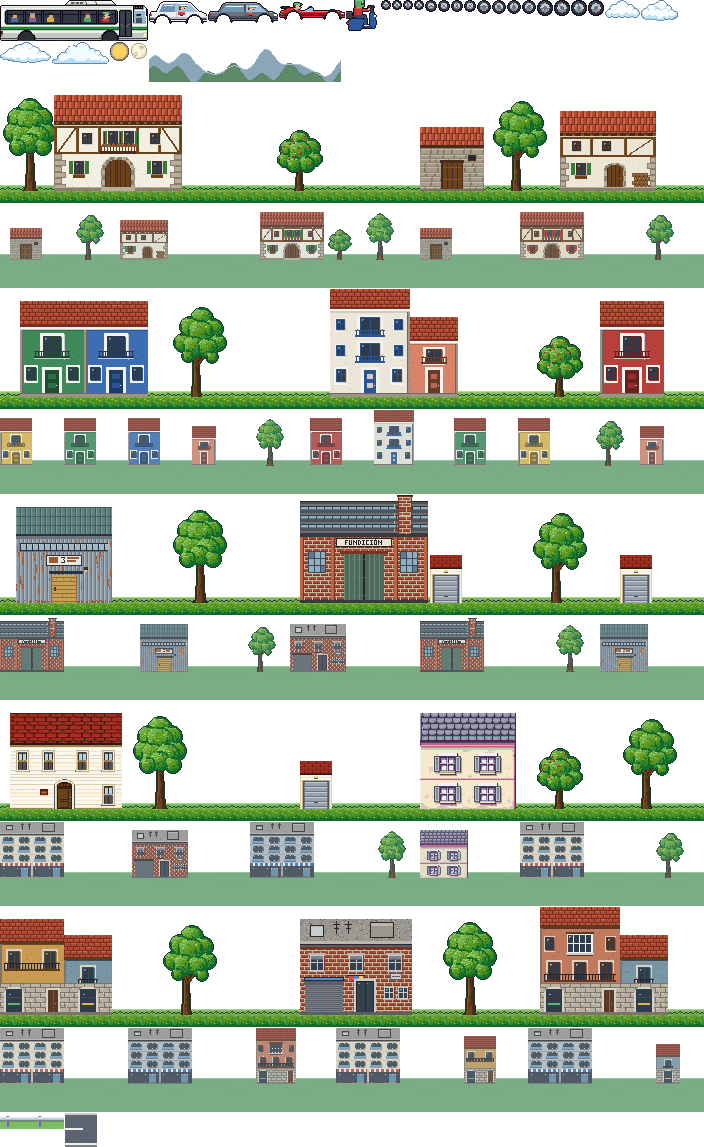
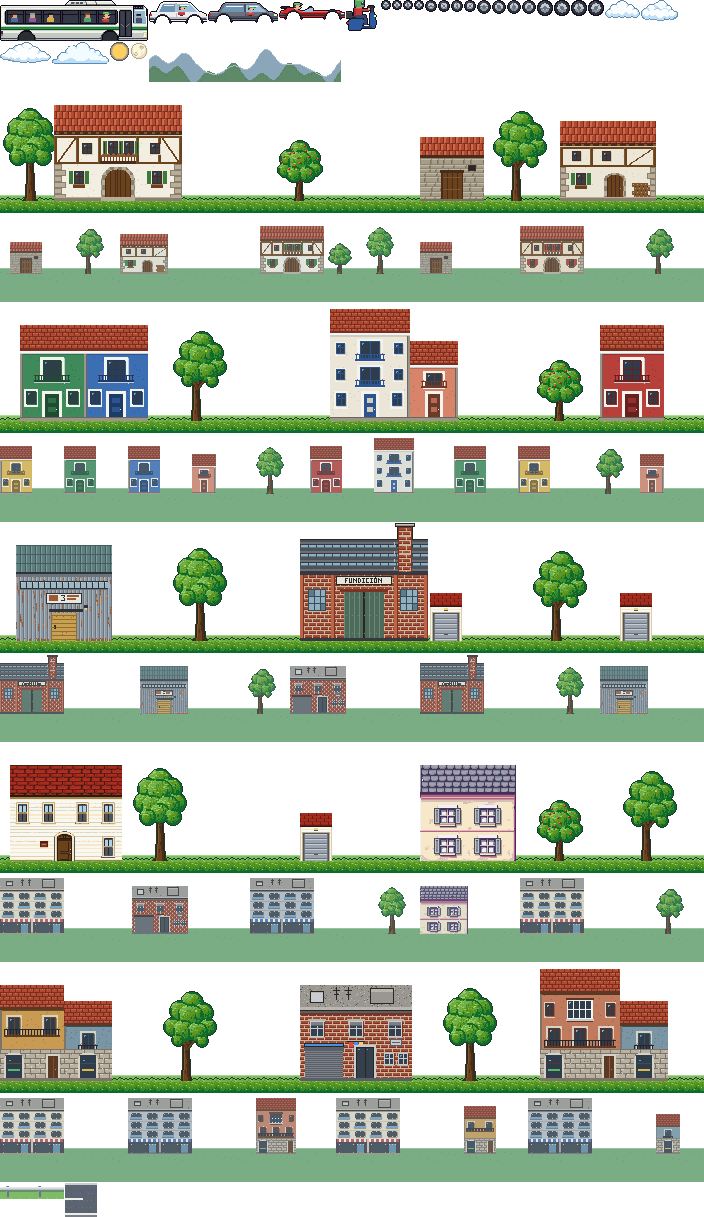
Viaje: la chimenea de la fundición, alta y con su corona
Claude-Session: https://claude.ai/code/session_01WWCwQsjgK3rvw6gQoSEGYZ

diff --git a/ribera-verde/tools/sprites/a-mano/viaje.py b/ribera-verde/tools/sprites/a-mano/viaje.py
@@ -218,8 +218,8 @@ def monte():
 # los caseríos, el de la costa, el de las naves, el barrio y la ciudad), cada uno en dos capas: la de junto a la carretera, a su
 # tamaño, y la de lejos, a la mitad, más arriba y más despacio. Cada capa se repite cada PUEBLO_W px
 PUEBLO_W = 704
-CERCA_H, CERCA_BASE = 120, 108          # la capa de junto a la carretera: alto y la fila del suelo (el pie de las casas)
-LEJOS_H, LEJOS_BASE = 84, 56            # la de lejos
+CERCA_H, CERCA_BASE = 130, 118          # la capa de junto a la carretera: alto y la fila del suelo (el pie de las casas)
+LEJOS_H, LEJOS_BASE = 88, 60            # la de lejos
 A = 'prop-arbol-alto/tree'; A2 = 'prop-arbol-alto2/tree2'; MZ = 'prop-manzano/manzano'
 def e(k): return 'edificio-%s/base' % k
 # (marco del atlas, x: la izquierda de las casas, el centro de los árboles); los de lejos, en px de la mitad
@@ -255,33 +255,42 @@ def del_atlas():
     return lambda k: hoja.crop((j['frames'][k]['x'], j['frames'][k]['y'], j['frames'][k]['x'] + j['frames'][k]['w'], j['frames'][k]['y'] + j['frames'][k]['h']))
 
 
-REMATE = 12                              # filas que le faltan por arriba a la fábrica del atlas (el tejado sin canto y la chimenea sin boca)
+REMATE = 22                              # filas que le faltan por arriba a la fábrica del atlas (el tejado sin canto y la chimenea sin boca)
+CUMBRE = REMATE - 6                      # la fila de la cumbrera: la chapa sube 5 filas más que en el atlas
+NEGRO, LADRILLO_C = (42, 38, 36, 255), (122, 52, 38, 255)
+CORONA = ((200, 196, 188, 255), (150, 148, 144, 255))   # el hormigón de la corona, luz y sombra
 
 
 def remata(k, im):
     # la fábrica del atlas acaba en la fila 0 a mitad de tejado: le sigue la chapa hacia arriba (cada 9 filas se repite) con su
-    # cumbrera oscura y sube la chimenea (x 98–111) con su boca; el atlas no se toca
+    # cumbrera oscura y la chimenea (x 98–111) sube muy por encima, perfilada contra el cielo, con su corona de hormigón; el atlas
+    # no se toca
     if k != e('fabrica'):
         return im
     w, h = im.size
     out = Image.new('RGBA', (w, h + REMATE), (0, 0, 0, 0))
     out.alpha_composite(im, (0, REMATE))
     src, px = im.load(), out.load()
-    for y in (0, 1):                      # la tira negra de arriba de la chimenea, ladrillo como debajo
+    for y in (0, 1):                      # la tira negra con la que se cortaba arriba, ladrillo como debajo
         for x in range(99, 111):
-            px[x, y + REMATE] = src[x, y + 3]
-    cumbre = REMATE - 6
-    for y in range(cumbre + 1, REMATE):   # la chapa, por su periodo
+            px[x, y + REMATE] = src[x, y + 9]
+    for y in range(CUMBRE + 1, REMATE):   # la chapa, por su periodo
         for x in range(w):
             px[x, y] = src[x, (y - REMATE) % 9]
     for x in range(w):
-        px[x, cumbre] = (42, 38, 36, 255)
-    for y in range(2, REMATE):            # la chimenea sube por encima de la cumbrera
+        px[x, CUMBRE] = NEGRO
+    for y in range(4, REMATE):            # el fuste, con el ladrillo de las filas 9-17 (el mismo periodo que la chapa)
         for x in range(98, 112):
-            px[x, y] = src[x, 3 + (y % 6)]
-    for x in range(97, 113):
-        px[x, 0] = (42, 38, 36, 255)
-        px[x, 1] = (42, 38, 36, 255) if x in (97, 112) else (122, 52, 38, 255)
+            px[x, y] = src[x, 9 + (y - REMATE) % 9]
+    for y in range(4, CUMBRE):            # por encima del tejado, su contorno
+        px[97, y] = px[112, y] = NEGRO
+    for x in range(95, 115):              # la corona: más ancha que el fuste, hormigón con su canto, y la boca debajo
+        px[x, 0] = NEGRO
+        px[x, 1] = NEGRO if x in (95, 114) else CORONA[0]
+        px[x, 2] = NEGRO if x in (95, 114) else CORONA[1]
+        px[x, 3] = NEGRO
+    for x in range(98, 112):
+        px[x, 4] = LADRILLO_C
     return out
 
 

diff --git a/ribera-verde/CHANGELOG.md b/ribera-verde/CHANGELOG.md
@@ -9,7 +9,7 @@
 - Los pueblos de detrás con el arte del juego (lo pidió el usuario: «los pueblos que se ven al iniciar el juego, que se parezcan más al juego»): `medio()` de `viaje.py` monta, sobre un prado con el seto corrido, las fachadas (caserío, borda, caserío 3 y caserío 2) y los árboles y el manzano del atlas de Godot (`PUEBLO`, `del_atlas`), 704 × 108; en `CAPAS`, a y 40 con el pie de las casas detrás del quitamiedos.
 - Pueblos distintos y casas más pequeñas cuanto más lejos (lo pidió el usuario: «que no todos los pueblos sean iguales y que, por lo alejadas que estén las casas de la carretera, se vean más o menos pequeñas»): cinco pueblos en `PUEBLOS` de `viaje.py` (rural de caseríos y bordas, costa de marineras, industria de naves y fundición, barrio y ciudad), cada uno en dos capas: `pueblo-<tipo>` junto a la carretera, a su tamaño y más espaciado, y `lejos-<tipo>`, a la mitad (`mitad`: cada 2 × 2, su color más repetido y el contorno primero), más arriba, con neblina y su prado; en `CAPAS`, `lejos` a y 56 con parallax 0,22 entre el monte y el pueblo. El pueblo sale por el destino (`PUEBLO_DE`, `pueblo(V)`, `VIAJE_V.k`) o, si no se conoce, por el trayecto, que también da dónde empieza. Prueba `tests/viaje.gd` (147: tamaños, lo de lejos ≤ 60 % de alto, pueblos distintos, cada parada con el suyo; `pueblo-<parada>.png` con `--pintar`).
 - El texto del viaje, siempre legible (lo pidió el usuario: «mientras no se tape el texto»): el trayecto y los minutos con contorno oscuro por los ocho lados (`_texto`, `TEXTO_BORDE`), no solo la sombra abajo a la derecha; se lee encima de cualquier tejado o fachada. Prueba en `tests/viaje.gd` (148; con el de antes, 575 px al aire).
-- La fundición del viaje, entera (lo preguntó el usuario: «del edificio fundición falta un cacho de techo»): el sprite del atlas acaba a mitad de tejado; `remata` de `viaje.py` le sigue la chapa 6 filas con su cumbrera oscura y sube la chimenea por encima con su boca (`REMATE` = 12, el atlas sin tocar), también la de lejos; las capas de los pueblos, 12 y 4 px más altas (`CERCA_H` 120, `LEJOS_H` 84; `pueblo` a y 28 y `lejos` a y 52 en `CAPAS`, con el pie donde estaba). Prueba en `tests/viaje.gd` (150: la cumbrera y la chimenea rematada en `pueblo-industria`).
+- La fundición del viaje, entera (lo preguntó el usuario: «del edificio fundición falta un cacho de techo»): el sprite del atlas acaba a mitad de tejado; `remata` de `viaje.py` le sigue la chapa 6 filas con su cumbrera oscura y, para que resalte (lo pidió el usuario: «que resalte por encima del tejado»), la chimenea sube 16 px por encima, perfilada contra el cielo y con su corona de hormigón más ancha que el fuste (`REMATE` = 22, `CUMBRE`, `CORONA`; el atlas sin tocar), también la de lejos; las capas de los pueblos, 22 y 8 px más altas (`CERCA_H` 130, `LEJOS_H` 88; `pueblo` a y 18 y `lejos` a y 48 en `CAPAS`, con el pie donde estaba). Prueba en `tests/viaje.gd` (151: la cumbrera, la chimenea ≥ 14 px por encima y la corona en `pueblo-industria`).
 - Prueba: `tests/viaje.gd` (124/0): cada rueda en su paso, el protagonista en la ventana, el pueblo, las piezas del cielo y los 6 tonos tramados de arriba abajo.
 
 ### 0.59.0 (código 79) y plugin de WordPress 1.5.8
